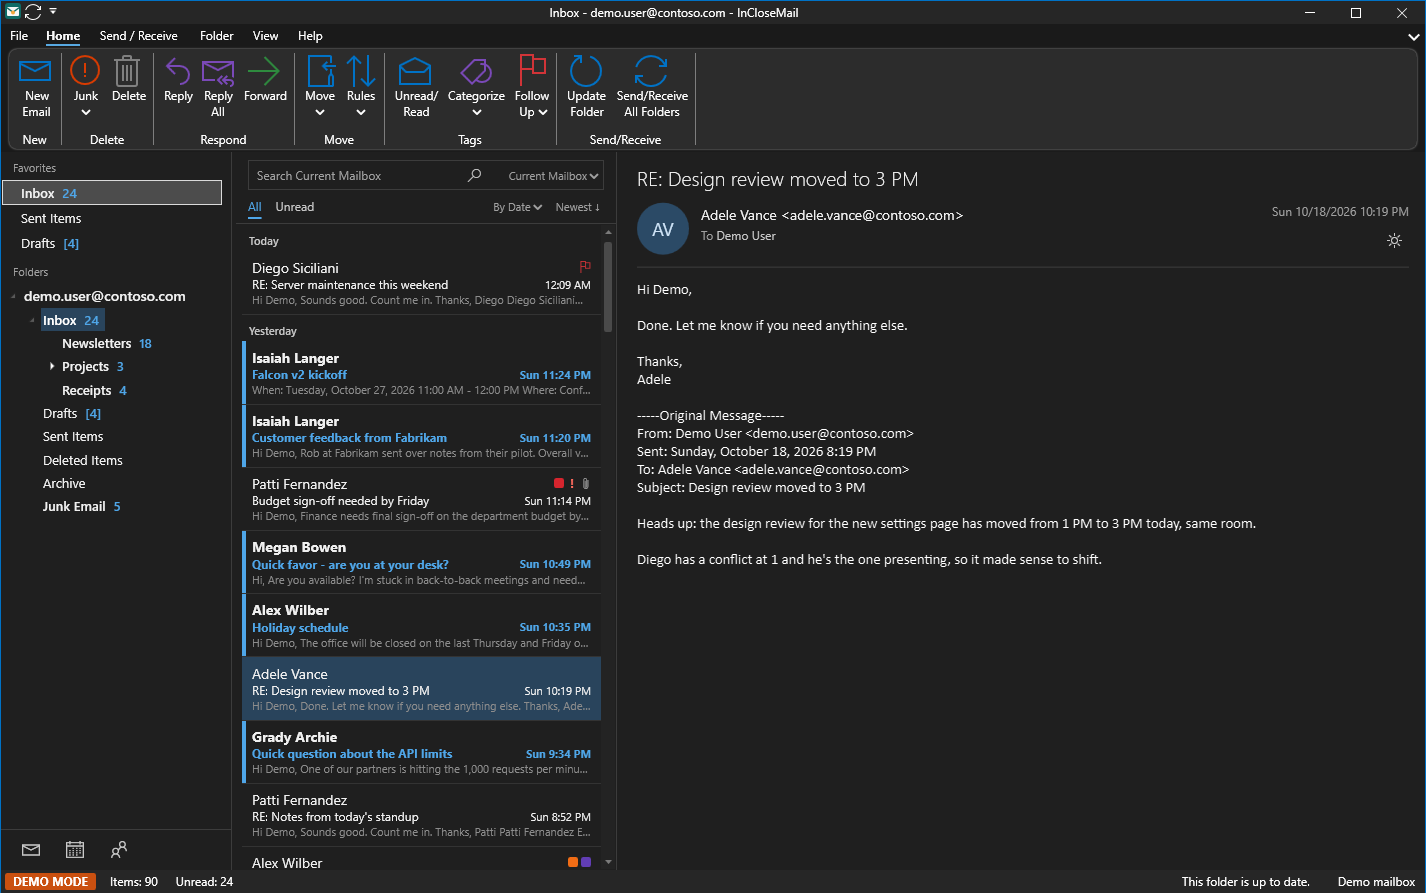
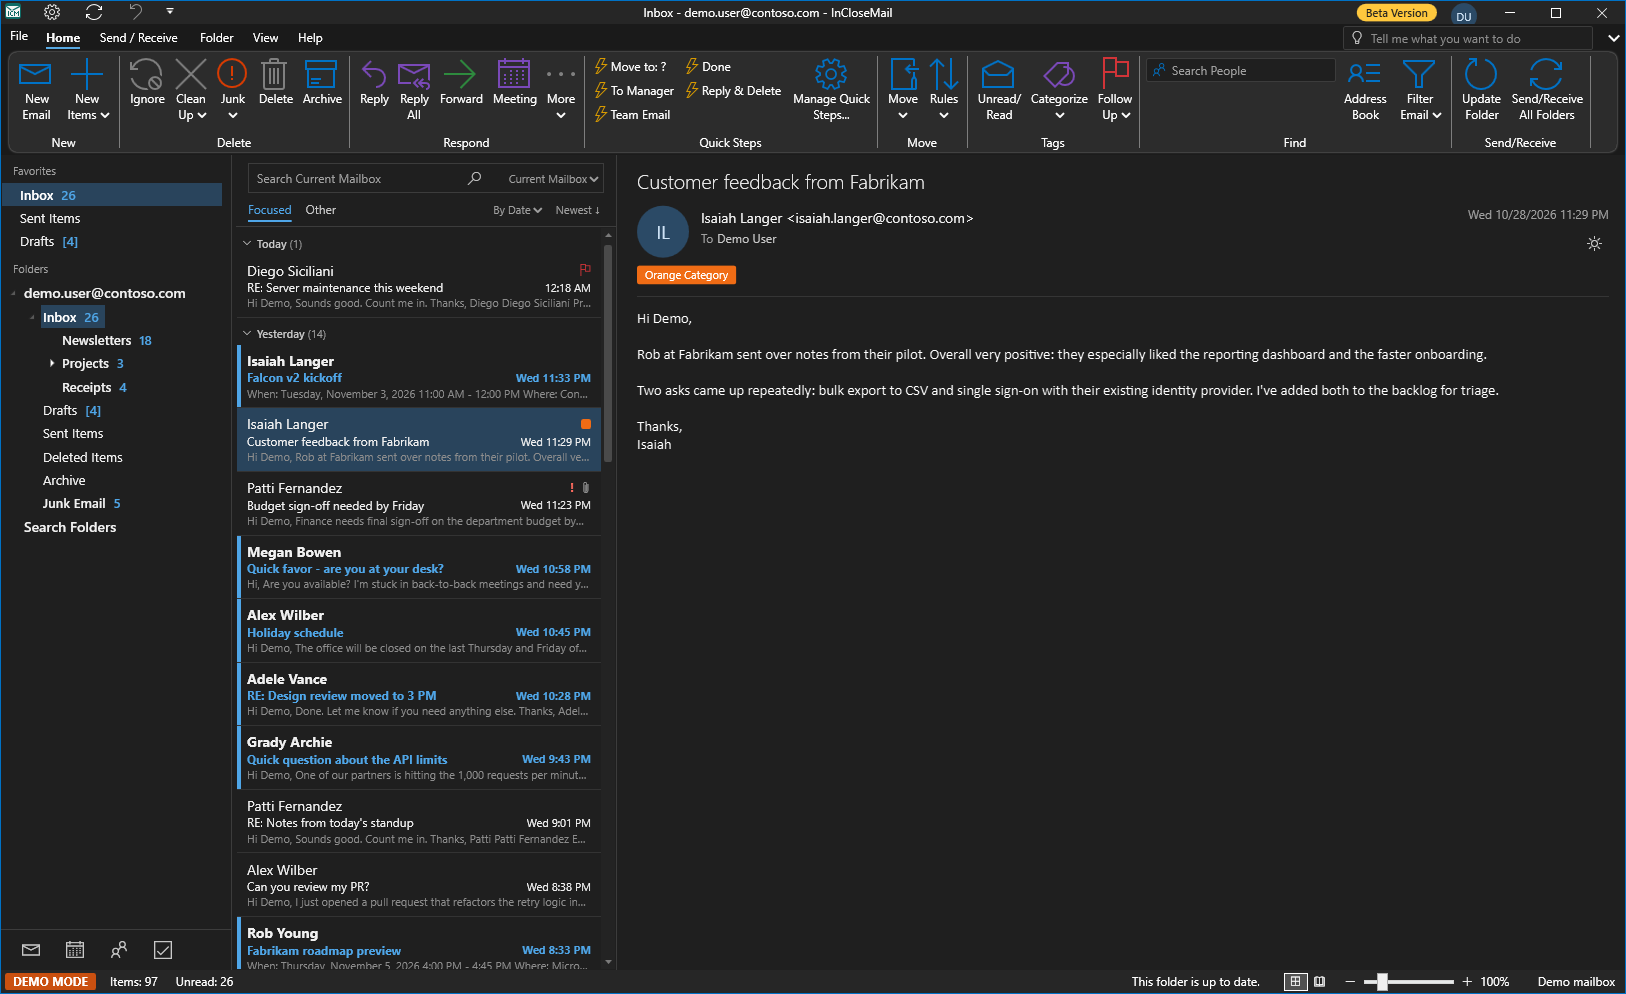
Beta download, and the page brought up to Outlook 2021 parity
- Download the free beta (the latest signed MSI) and release notes in the header,
  with requirements and the beta's end date.
- Outlook 2021 instead of 2016/2019, and a feature list that covers what the app
  does now: calendar, contacts and tasks, rules and Quick Steps, shared mailboxes,
  .pst import, IT deployment.
- About the beta.
- New light and dark screenshots of the sample mailbox, at a size where the whole
  ribbon fits.

diff --git a/index.html b/index.html
@@ -4,7 +4,7 @@
   <meta charset="utf-8">
   <meta name="viewport" content="width=device-width, initial-scale=1">
   <title>InCloseMail</title>
-  <meta name="description" content="Email, calendar and contacts for Microsoft 365 on Windows. If you've used Outlook 2016 or 2019, you already know how to use InCloseMail.">
+  <meta name="description" content="Email, calendar, contacts and tasks for Microsoft 365 and Outlook.com on Windows, working the way Outlook 2021 does. Free public beta.">
   <meta name="color-scheme" content="light dark">
   <link rel="icon" href="favicon.svg" type="image/svg+xml">
   <link rel="stylesheet" href="style.css">
@@ -29,34 +29,51 @@
           <span class="icon" aria-hidden="true"></span><span class="label">Dark mode</span>
         </button>
       </div>
-      <h1>If you&rsquo;ve used Outlook 2016 or 2019, you already know how to use InCloseMail.</h1>
-      <p class="lead">InCloseMail is a Windows desktop email client for Microsoft 365 and Outlook.com: email, calendar and contacts.</p>
+      <h1>If you&rsquo;ve used Outlook 2021, you already know how to use InCloseMail.</h1>
+      <p class="lead">A Windows desktop email client for Microsoft 365 and Outlook.com that works the way classic Outlook does: the ribbon, the menus, the right-click options and the keyboard shortcuts you already use, for mail, calendar, contacts and tasks.</p>
+      <div class="cta">
+        <a class="button" href="https://github.com/InCloseMail/inclosemail-releases/releases/latest/download/InCloseMail.msi">Download the free beta</a>
+        <a class="cta-link" href="https://github.com/InCloseMail/inclosemail-releases/releases">Release notes</a>
+      </div>
+      <p class="cta-note">Windows 10 (version 1809) or Windows 11, 64-bit. Signed installer. Updates install from inside the app. Beta builds work until December 31, 2026.</p>
     </div>
   </header>
 
   <main class="wrap">
     <figure class="shot">
       <!-- The app in the page's mode: light normally, Dark Mode when the page is dark. -->
-      <img class="shot-light" src="screenshot.png" width="1426" height="893"
+      <img class="shot-light" src="screenshot.png" width="1626" height="994"
            alt="InCloseMail showing an Inbox: the ribbon across the top, the folder list on the left, the message list in the middle and the open message on the right.">
-      <img class="shot-dark" src="screenshot-dark.png" width="1426" height="893"
+      <img class="shot-dark" src="screenshot-dark.png" width="1626" height="994"
            alt="InCloseMail in Dark Mode showing an Inbox: the ribbon across the top, the folder list on the left, the message list in the middle and the open message on the right.">
       <figcaption>InCloseMail with its sample mailbox.</figcaption>
     </figure>
 
     <section aria-labelledby="features">
-      <h2 id="features">Features</h2>
+      <h2 id="features">Outlook 2021, feature for feature</h2>
+      <p class="section-lead">InCloseMail was checked against Outlook 2021, screen by screen: if you reach for something out of habit, it&rsquo;s where you expect it.</p>
       <ul class="features">
-        <li><strong>The layout you know</strong><span>The ribbon, the folder list, the message list and the reading pane.</span></li>
-        <li><strong>Calendar and contacts</strong><span>Your Microsoft 365 calendar and people, side by side with mail.</span></li>
-        <li><strong>Rules, signatures and search</strong><span>Rules that file your mail, your signatures, and fast search.</span></li>
-        <li><strong>Offline and Send/Receive</strong><span>A local copy of your mail that stays readable and searchable offline.</span></li>
+        <li><strong>The layout you know</strong><span>The ribbon and its tabs, the folder list with Favorites, the message list, the reading pane, the To-Do Bar, Tell me, and Outlook&rsquo;s keyboard shortcuts.</span></li>
+        <li><strong>Mail the way you work</strong><span>Conversations, categories, follow-up flags and reminders, Ignore, Clean Up, search folders, Advanced Find, and the People Pane.</span></li>
+        <li><strong>Calendar</strong><span>Day, week and month views, meetings with the Scheduling Assistant and Room Finder, shared calendars, calendar groups and internet calendars.</span></li>
+        <li><strong>Contacts and tasks</strong><span>Your contacts with contact groups and colleagues&rsquo; shared contacts, and tasks with due dates, reminders and recurrence.</span></li>
+        <li><strong>Rules and Quick Steps</strong><span>Rules that run on the server, Quick Steps with Outlook&rsquo;s full list of actions, Always Move Messages in This Conversation, and rules you can export and import.</span></li>
+        <li><strong>Writing messages</strong><span>Signatures, Quick Parts, voting buttons, Delay Delivery, Format Painter and styles, spell check, and Save Sent Item To.</span></li>
+        <li><strong>Shared mailboxes</strong><span>Shared mailboxes and calendars in the folder list, Send As, and search across all of your mailboxes.</span></li>
+        <li><strong>Offline and Send/Receive</strong><span>A local copy of your mail that stays readable and searchable offline, Work Offline, and Send/Receive with Show Progress.</span></li>
+        <li><strong>Bring your .pst files</strong><span>Import an Outlook Data File into your mailbox, folders and all, without Outlook.</span></li>
         <li><strong>&ldquo;Why is this suspicious?&rdquo;</strong><span>A plain-language explanation for messages that look like phishing.</span></li>
-        <li><strong>Reply-all guardrails</strong><span>A second look before a message goes to everyone.</span></li>
-        <li><strong>Read-only mode</strong><span>Browse a mailbox without changing anything.</span></li>
+        <li><strong>A second look before sending</strong><span>A check for forgotten attachments, outside recipients and replies to many people.</span></li>
+        <li><strong>Read-only mode</strong><span>Browse a mailbox without changing anything, until you choose to allow changes.</span></li>
         <li><strong>Light and dark mode</strong><span>Pick the look that suits you.</span></li>
-        <li><strong>MSI install for IT</strong><span>A standard Windows Installer package for managed deployment.</span></li>
+        <li><strong>Ready for IT</strong><span>A signed Windows Installer package and Group Policy and Intune templates for managed deployment.</span></li>
       </ul>
+    </section>
+
+    <section aria-labelledby="beta">
+      <h2 id="beta">About the beta</h2>
+      <p>The beta is free. Each new build is offered inside the app (Help &rarr; Check for Updates), and beta builds work until December 31, 2026. After that, a beta build keeps the mail already on your PC readable but stops sending and receiving until you install a newer version.</p>
+      <p>Found a problem, or missing something you used in Outlook? Use <strong>Help &rarr; Suggest a Feature</strong> or <strong>Contact Support</strong> in the app.</p>
     </section>
 
     <section aria-labelledby="support">

diff --git a/style.css b/style.css
@@ -123,6 +123,51 @@ a { color: var(--accent); }
   opacity: 0.9;
 }
 
+/* Download the beta: a white button on the teal header, the release notes beside it. */
+.cta {
+  display: flex;
+  flex-wrap: wrap;
+  align-items: center;
+  gap: 12px 20px;
+  margin-top: 28px;
+}
+
+.button {
+  display: inline-block;
+  padding: 11px 22px;
+  border-radius: 6px;
+  background: #ffffff;
+  color: #0f6b66;
+  font-weight: 600;
+  text-decoration: none;
+  box-shadow: 0 2px 8px rgba(0, 0, 0, 0.18);
+}
+
+.button:hover { background: #e8f4f3; }
+
+.button:focus-visible,
+.cta-link:focus-visible {
+  outline: 2px solid var(--hero-text);
+  outline-offset: 3px;
+}
+
+.cta-link {
+  color: var(--hero-text);
+  text-decoration: underline;
+  text-underline-offset: 3px;
+}
+
+.cta-note {
+  margin: 12px 0 0;
+  font-size: 0.9rem;
+  opacity: 0.85;
+}
+
+.section-lead {
+  margin: -8px 0 16px;
+  color: var(--muted);
+}
+
 main { padding-top: 40px; padding-bottom: 24px; }
 
 /* The app in light mode, as it looks out of the box; a frame keeps it apart from a dark page. */
